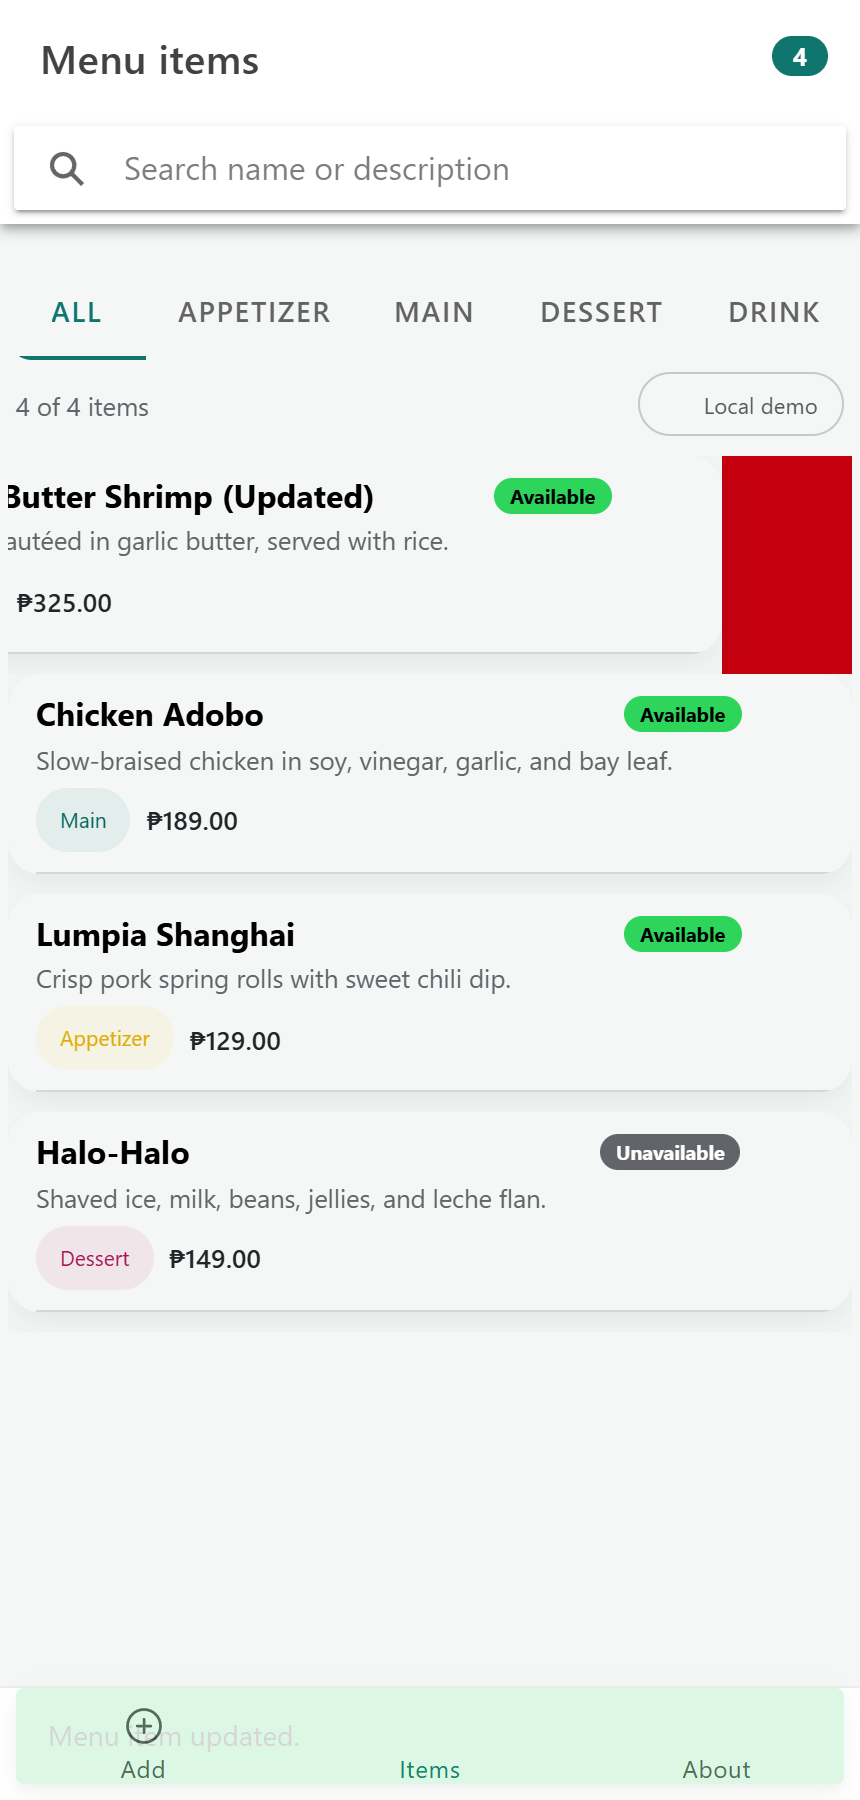
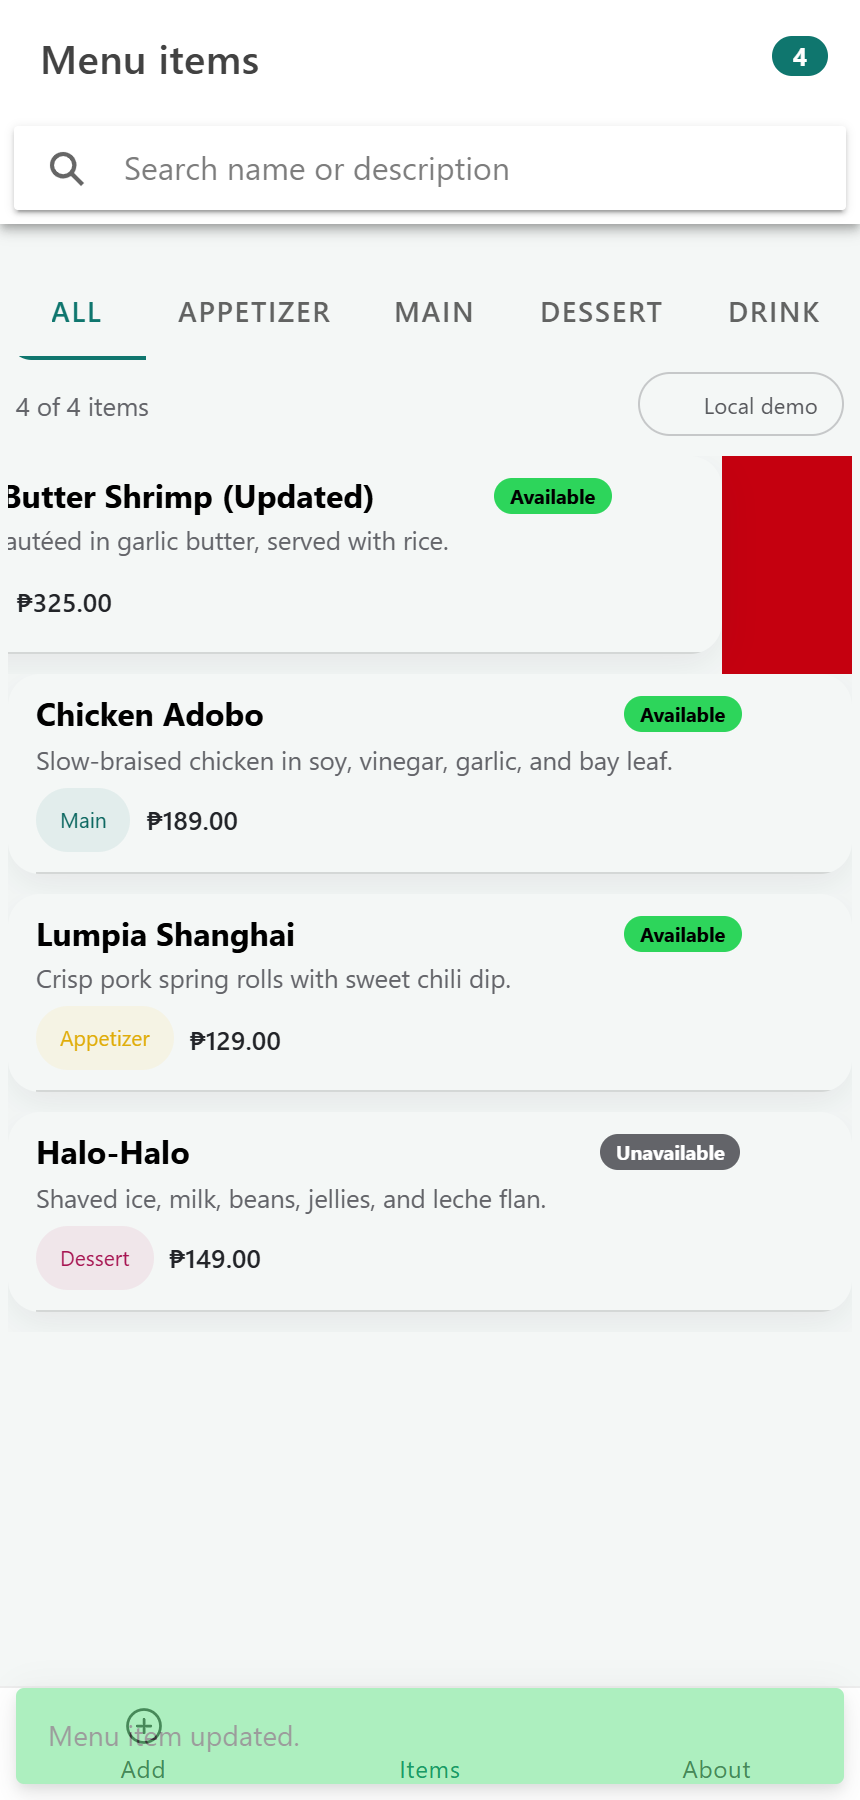
fix(service): persist empty list and expose live backend state

Changed region(s): [[0.0, 0.9333, 0.9977, 0.9956]]

diff --git a/src/app/services/menu-item.service.ts b/src/app/services/menu-item.service.ts
@@ -42,8 +42,8 @@ export class MenuItemService {
   private firestore: Firestore | null = null;
   private stopListener: (() => void) | null = null;
 
-  readonly backend: BackendMode;
-  readonly backendDetail: string;
+  backend: BackendMode;
+  backendDetail: string;
 
   readonly items$: Observable<MenuItem[]> = this.itemsSubject
     .asObservable()
@@ -180,6 +180,9 @@ export class MenuItemService {
         this.stopListener?.();
         this.stopListener = null;
         this.firestore = null;
+        this.backend = 'local';
+        this.backendDetail =
+          'localStorage demo mode (Firestore listener failed)';
         this.loadLocal();
       },
     );
@@ -187,10 +190,12 @@ export class MenuItemService {
 
   private loadLocal(): void {
     let items: MenuItem[] = [];
+    let hasStoredValue = false;
 
     try {
       const raw = localStorage.getItem(STORAGE_KEY);
-      if (raw) {
+      if (raw !== null) {
+        hasStoredValue = true;
         const parsed: unknown = JSON.parse(raw);
         if (Array.isArray(parsed)) {
           items = parsed as MenuItem[];
@@ -200,7 +205,9 @@ export class MenuItemService {
       console.warn('Stored menu items could not be read.', error);
     }
 
-    if (items.length === 0) {
+    // Seed only on first run. An intentionally empty list (after "delete all")
+    // must stay empty across reloads.
+    if (!hasStoredValue) {
       items = this.demoItems();
       this.persistLocal(items);
     }

diff --git a/src/app/tab3/tab3.page.ts b/src/app/tab3/tab3.page.ts
@@ -2,7 +2,10 @@ import { Component, inject } from '@angular/core';
 import { AlertController } from '@ionic/angular/lazy';
 import { map } from 'rxjs';
 
-import { MenuItemService } from '../services/menu-item.service';
+import {
+  BackendMode,
+  MenuItemService,
+} from '../services/menu-item.service';
 
 @Component({
   selector: 'app-tab3',
@@ -14,9 +17,15 @@ export class Tab3Page {
   private readonly menuItems = inject(MenuItemService);
   private readonly alertController = inject(AlertController);
 
-  readonly backend = this.menuItems.backend;
-  readonly backendDetail = this.menuItems.backendDetail;
   readonly itemCount$ = this.menuItems.items$.pipe(map((items) => items.length));
+
+  get backend(): BackendMode {
+    return this.menuItems.backend;
+  }
+
+  get backendDetail(): string {
+    return this.menuItems.backendDetail;
+  }
 
   isBusy = false;
   isToastOpen = false;

diff --git a/src/app/tab2/tab2.page.ts b/src/app/tab2/tab2.page.ts
@@ -6,7 +6,10 @@ import {
   MenuCategory,
   MenuItem,
 } from '../models/menu-item.model';
-import { MenuItemService } from '../services/menu-item.service';
+import {
+  BackendMode,
+  MenuItemService,
+} from '../services/menu-item.service';
 
 type CategoryFilter = 'All' | MenuCategory;
 
@@ -20,7 +23,10 @@ export class Tab2Page implements OnInit, OnDestroy {
   private readonly menuItems = inject(MenuItemService);
 
   readonly categories: CategoryFilter[] = ['All', ...MENU_CATEGORIES];
-  readonly backend = this.menuItems.backend;
+
+  get backend(): BackendMode {
+    return this.menuItems.backend;
+  }
 
   allItems: MenuItem[] = [];
   filteredItems: MenuItem[] = [];

diff --git a/src/app/tab1/tab1.page.ts b/src/app/tab1/tab1.page.ts
@@ -7,7 +7,10 @@ import {
   MenuCategory,
   MenuItemInput,
 } from '../models/menu-item.model';
-import { MenuItemService } from '../services/menu-item.service';
+import {
+  BackendMode,
+  MenuItemService,
+} from '../services/menu-item.service';
 
 @Component({
   selector: 'app-tab1',
@@ -20,7 +23,10 @@ export class Tab1Page {
   private readonly router = inject(Router);
 
   readonly categories = MENU_CATEGORIES;
-  readonly backend = this.menuItems.backend;
+
+  get backend(): BackendMode {
+    return this.menuItems.backend;
+  }
 
   form: MenuItemInput = { ...EMPTY_MENU_ITEM };
   submitted = false;

diff --git a/src/app/services/menu-item.service.spec.ts b/src/app/services/menu-item.service.spec.ts
@@ -71,6 +71,15 @@ describe('MenuItemService (local demo mode)', () => {
     expect((await firstValueFrom(service.items$)).length).toBe(3);
   });
 
+  it('keeps an intentionally empty list empty after a reload', async () => {
+    const service = new MenuItemService();
+
+    await service.clearAll();
+
+    const reloaded = new MenuItemService();
+    expect((await firstValueFrom(reloaded.items$)).length).toBe(0);
+  });
+
   it('trims text and coerces the price before saving', async () => {
     const service = new MenuItemService();
 

diff --git a/README.md b/README.md
@@ -48,7 +48,7 @@ Other commands:
 
 ```bash
 npm run lint       # ESLint + Angular template rules
-npm run test:ci    # 18 unit tests, no watch
+npm run test:ci    # 19 unit tests, no watch
 npm run build      # production bundle in www/
 npm run e2e:smoke  # real Chrome CRUD test + screenshots (server must be running)
 ```
@@ -138,7 +138,7 @@ The runner machine needs Docker Desktop running and the labels `self-hosted`,
 ## Verification performed on this machine
 
 - `npm run build` — production bundle generated in `www/`.
-- `npm run test:ci` — **7 test files, 18 tests passed**.
+- `npm run test:ci` — **7 test files, 19 tests passed**.
 - `npm run lint` — all files pass.
 - `npm run e2e:smoke` — real Chrome flow: create, search, update, delete,
   About tab, desktop layout. Screenshots are in

diff --git a/docs/SUBMISSION-CHECKLIST.md b/docs/SUBMISSION-CHECKLIST.md
@@ -16,7 +16,7 @@
 - [x] Docker build/run helper: `scripts/verify-docker.ps1` / `.cmd`.
 - [x] GitHub Actions CI/CD workflow with Windows hosted CI and self-hosted CD.
 - [x] Deployable lab Firestore rules (`firebase.json`, `firestore.rules`).
-- [x] Unit tests: 7 files / 18 tests passing.
+- [x] Unit tests: 7 files / 19 tests passing.
 - [x] Lint passing.
 - [x] Production build passing.
 - [x] Real-browser CRUD smoke test passing, with screenshots in `docs/screenshots/`.

diff --git a/docs/LAB-REPORT.md b/docs/LAB-REPORT.md
@@ -81,7 +81,7 @@ AngularFire)" note.
 | Check | Result |
 |---|---|
 | `npm run build` | Passed; bundle written to `www/` |
-| `npm run test:ci` | 7 files, **18 tests passed** |
+| `npm run test:ci` | 7 files, **19 tests passed** |
 | `npm run lint` | All files pass |
 | Browser smoke test | Create → read → search → update → delete passed in Chrome |
 
